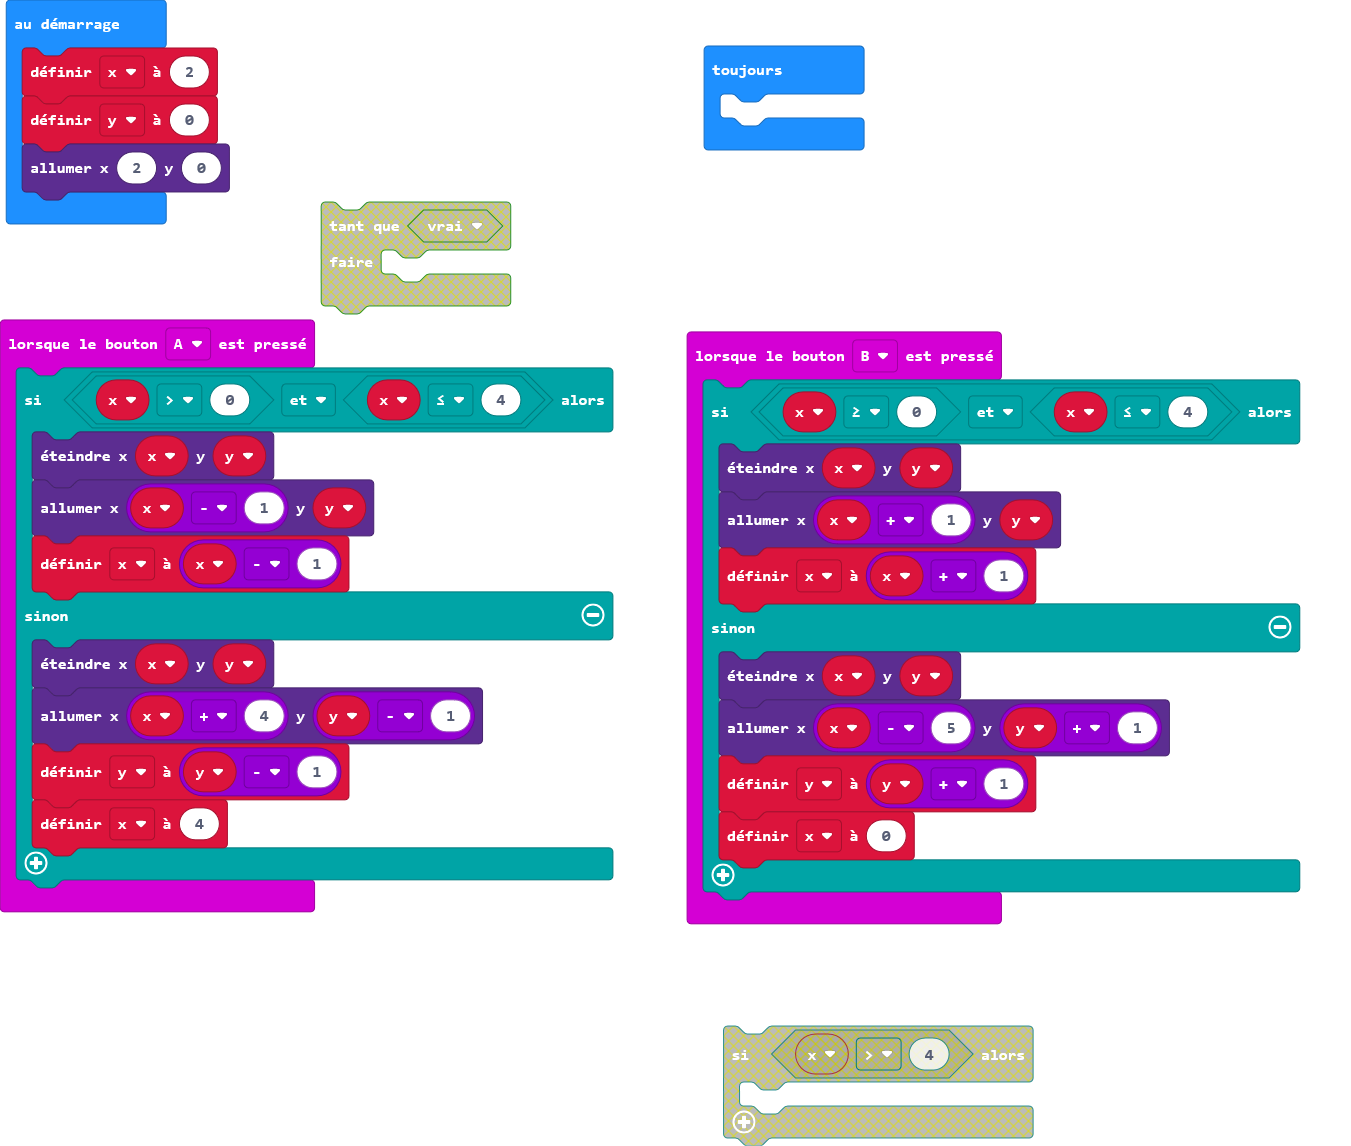
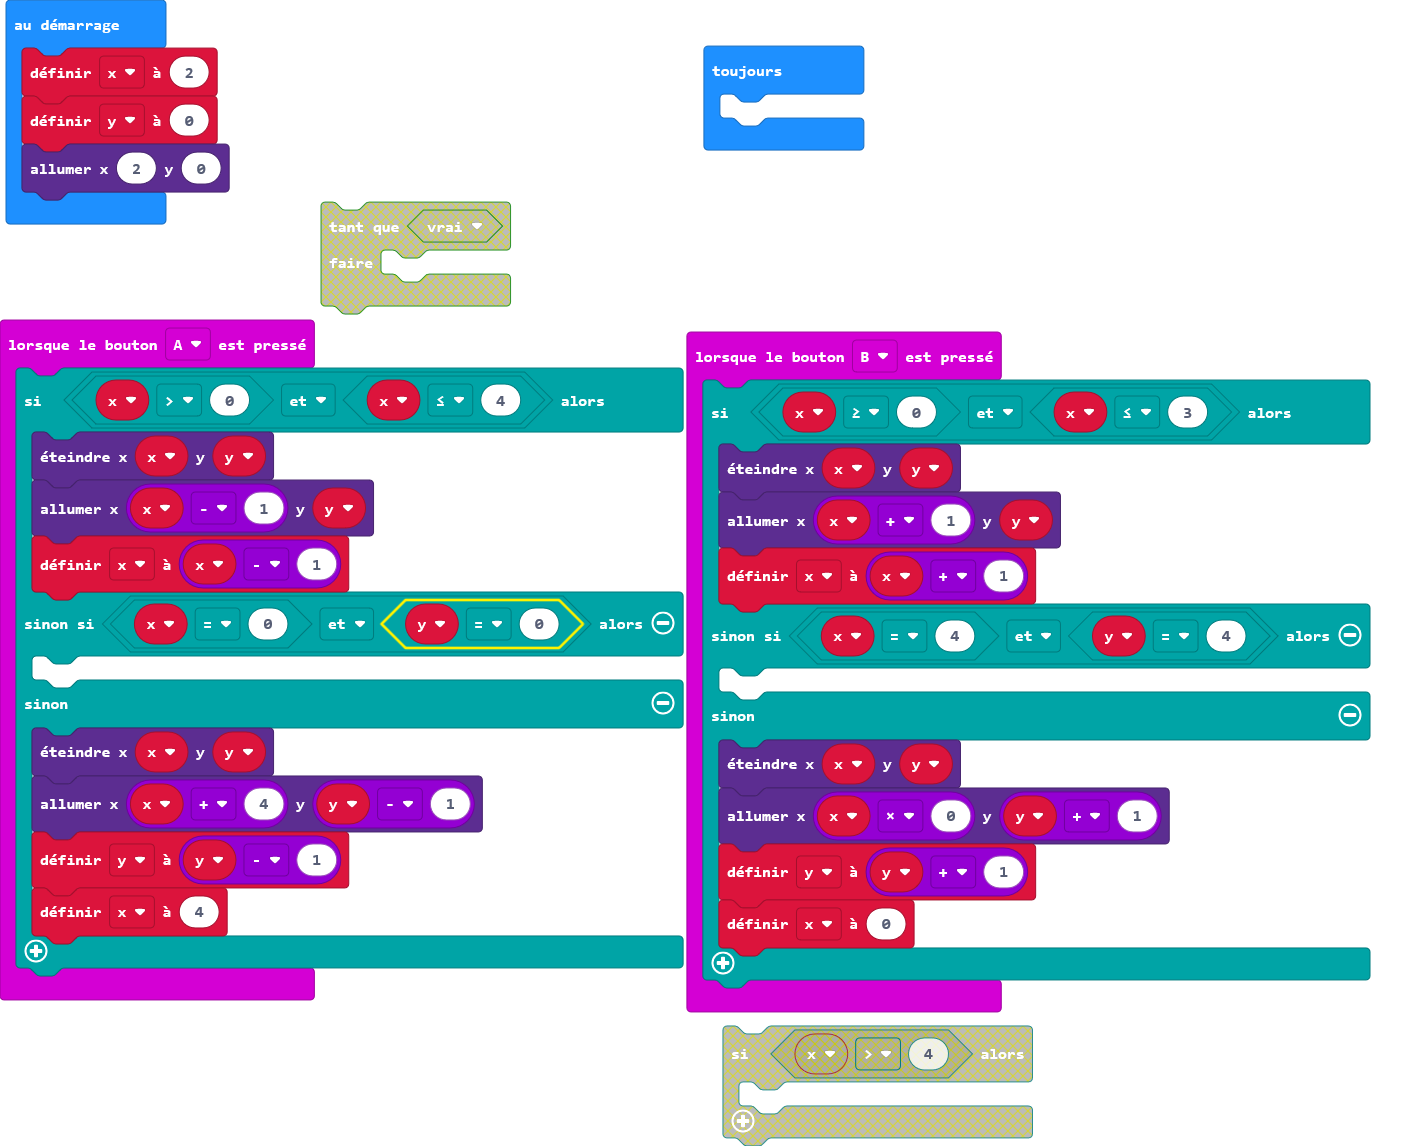
Ne sort plus des bords

diff --git a/main.ts b/main.ts
@@ -3,6 +3,8 @@ input.onButtonPressed(Button.A, function () {
         led.unplot(x, y)
         led.plot(x - 1, y)
         x = x - 1
+    } else if (x == 0 && y == 0) {
+    	
     } else {
         led.unplot(x, y)
         led.plot(x + 4, y - 1)
@@ -11,13 +13,15 @@ input.onButtonPressed(Button.A, function () {
     }
 })
 input.onButtonPressed(Button.B, function () {
-    if (x >= 0 && x <= 4) {
+    if (x >= 0 && x <= 3) {
         led.unplot(x, y)
         led.plot(x + 1, y)
         x = x + 1
+    } else if (x == 4 && y == 4) {
+    	
     } else {
         led.unplot(x, y)
-        led.plot(x - 5, y + 1)
+        led.plot(x * 0, y + 1)
         y = y + 1
         x = 0
     }
